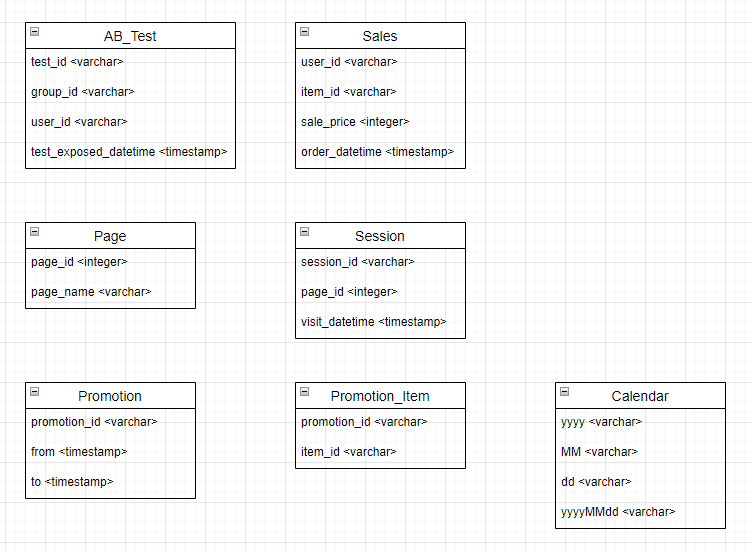
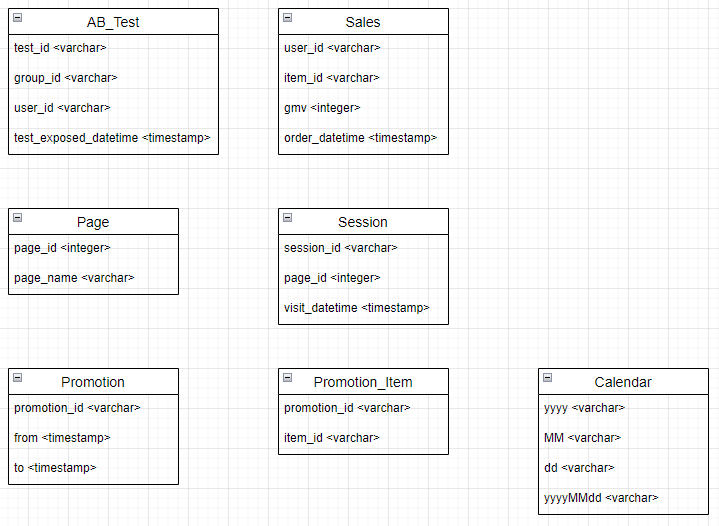
update description

diff --git a/quiz_2.md b/quiz_2.md
@@ -5,7 +5,7 @@ Q1) AB Test : GMV per Customer (related tables : `AB_Test`, `Sales`)
 
 Please calculate each AB Test group's average of GMV per Customer.  
 
-1. GMV = Gross Merchandise Value = sum of `sale_price`.  
+1. GMV = Gross Merchandise Value = Sales price of goods x number of goods sold.  
 2. `user_id` is unique for each ab-test. 
 3. Each customers' GMV should be calculated *after* test exposure case only.  
 4. There are customers *who buy nothing.* Let their GMV as 0.      
